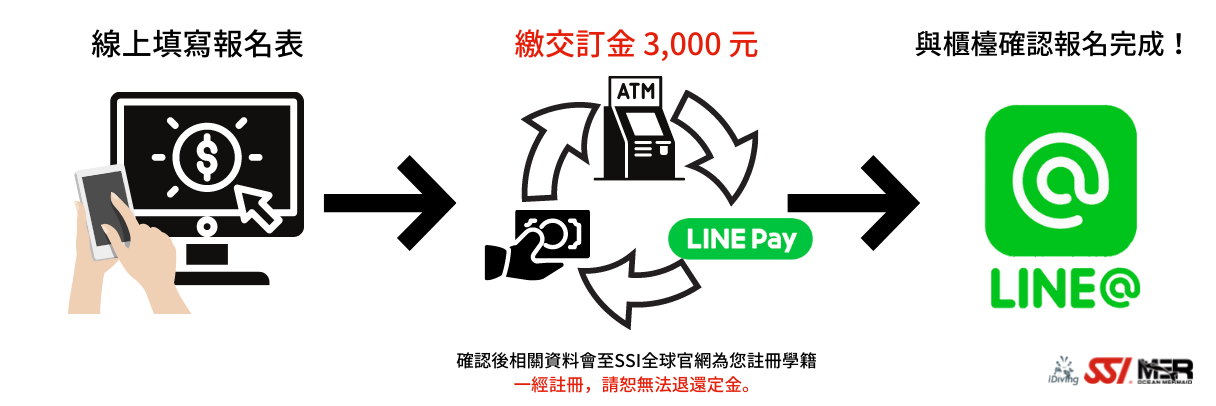
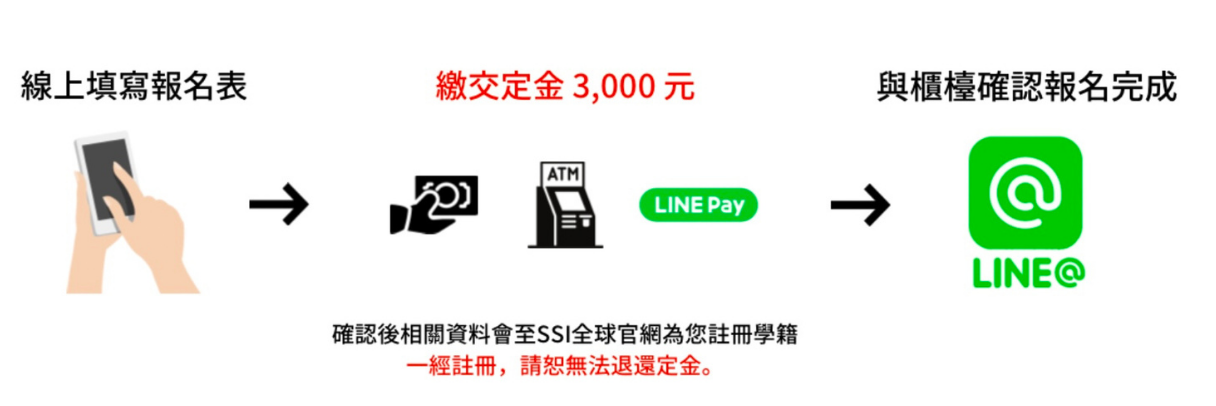
修改 報名方式 的排版

diff --git a/src/app/components/Part/paymentmethod/paymentmethod.component.html b/src/app/components/Part/paymentmethod/paymentmethod.component.html
@@ -19,54 +19,15 @@
         </thead>
         <tbody>
             <tr>
-                <td colspan="2">
-                    <img width="75%" src="../../../../assets/Image/Data/MM_06.png"
-                        style="display:block; margin:auto;" />
-                </td>
-            </tr>
-            <tr>
-                <td colspan="2">
-                    <ol>
-                        <li>
-                            <a class="fs-5">
-                                線上填寫報名表
-                            </a>
-                        </li>
-                        <li>
-                            <a class="fs-5">
-                                繳交定金3,000元
-                            </a>
-                        </li>
-                        <li>
-                            <a class="fs-5">
-                                匯款或Line pay 定金後，Line 告知我們確認期別
-                            </a>
-                        </li>
-                    </ol>
-                </td>
-            </tr>
-            <tr>
-                <td width="2%"style="vertical-align:text-top;">
-                    <ul>
-                        <li></li>
-                    </ul>
-                </td>
                 <td>
-                    <a class="fs-5">
-                        收到定金與資料後，iDiving將會至SSI 註冊您的學籍。一經註冊，恕無法退定金。
-                    </a>
+                    <img width="75%" src="../../../../assets/Image/Data/MM_06.png" style="display:block; margin:auto;" />
                 </td>
             </tr>
             <tr>
-                <td style="vertical-align:text-top;">
+                <td class="fs-5" style="vertical-align:text-top;">
                     <ul>
-                        <li></li>
+                        <li>上課前請備好個人照片，為申請潛水證照使用。</li>
                     </ul>
-                </td>
-                <td>
-                    <a class="fs-5">
-                        上課前請備好個人照片，為申請潛水證照使用。
-                    </a>
                 </td>
             </tr>
         </tbody>
